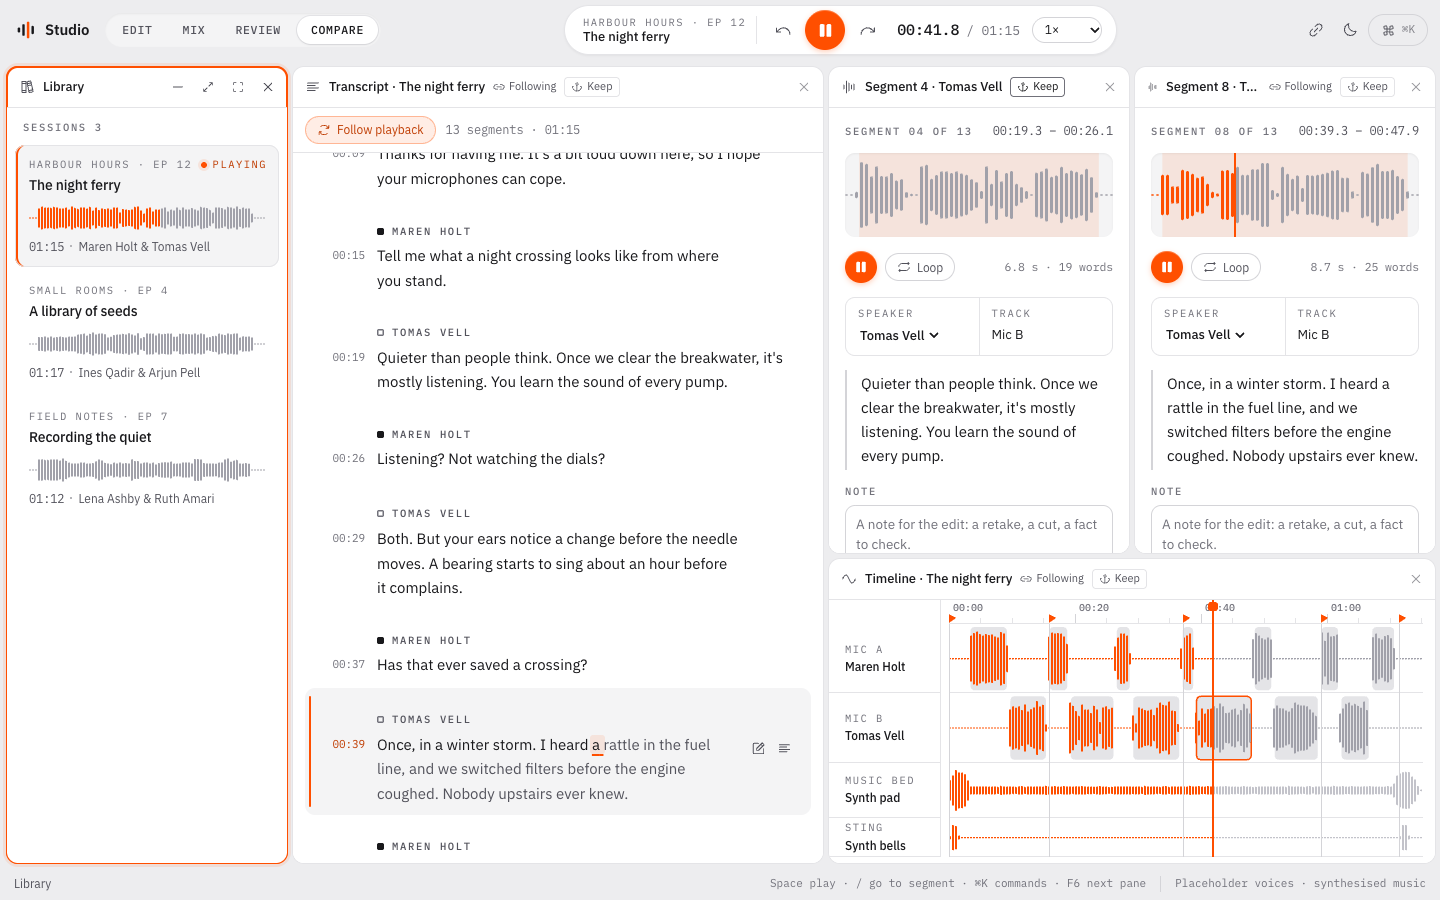
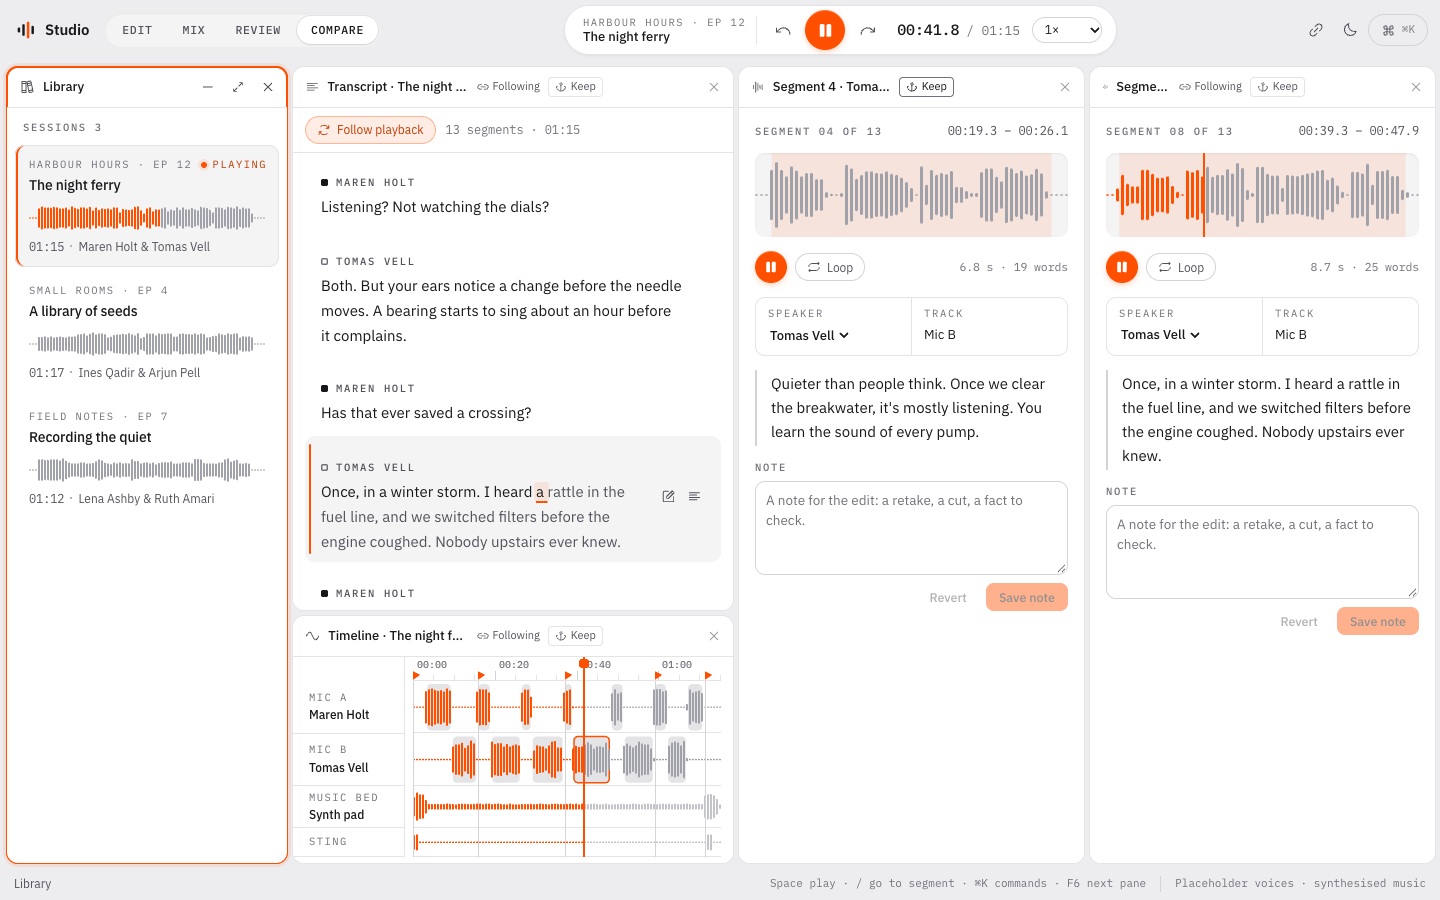
Studio example: Compare keeps the timeline under the transcript, so a narrow window keeps the transcript

diff --git a/examples/studio/src/presets.ts b/examples/studio/src/presets.ts
@@ -76,25 +76,19 @@ export const presets: PresetOptions[] = [
     ),
   },
   {
-    // Two segments side by side: the left one is kept; the right one follows the transcript.
+    // Two segments side by side, full height: the left one is kept; the right one follows the transcript, which has
+    // the timeline under it. Narrow, the two segments fold into the transcript's tabs.
     id: "compare",
     label: "Compare",
     layout: row(
       pane(library(), { id: "library", weight: 0.7 }),
-      tr(1.4),
-      column(
-        { weight: 2 },
-        row(
-          { weight: 1.6 },
-          pane(clip({ session, segment: "s04" }), {
-            id: "clip-a",
-            linkedTo: "transcript",
-            kept: true,
-          }),
-          pane(clip({ session, segment: "s06" }), { id: "clip", ...followsTranscript }),
-        ),
-        tl(1),
-      ),
+      column({ weight: 1.5 }, tr(2.2), tl(1)),
+      pane(clip({ session, segment: "s04" }), {
+        id: "clip-a",
+        linkedTo: "transcript",
+        kept: true,
+      }),
+      pane(clip({ session, segment: "s06" }), { id: "clip", ...followsTranscript }),
     ),
   },
 ];

diff --git a/examples/studio/FINDINGS.md b/examples/studio/FINDINGS.md
@@ -87,7 +87,17 @@ Studio is built on `@jali/core` and `@jali/react` alone, with no change to `pack
 
 **Suggestion.** In a narrow header, move tuck, maximise and full screen into a menu before the shown tab's title drops below a few characters.
 
-## 9. Smaller things
+## 9. A wide pane folded into a narrow one's tabs can fold everything
+
+**Wanted.** Compare at 760 pixels: the library and the transcript, with the two segments and the timeline as tabs.
+
+**Happened.** In the first version of Compare the timeline (minimum 440) sat under the two segments. At 760 the segments folded, then the timeline folded into the library's tab group, since it follows the library. A tab group is as narrow as its widest tab allows, so the library's group became 440 wide, the transcript no longer fitted beside it, and it folded too: one pane on screen, "4 folded" on the shelf. Each step follows the documented rules; together they gave the worst result.
+
+**Workaround.** Compare now puts the timeline under the transcript, so a fold never sends a wide pane into the library (`presets.ts`). At 760 it shows the library, the transcript and the timeline, with the two segments as tabs of the transcript.
+
+**Suggestion.** When choosing where a folded pane goes, prefer a group whose minimum it doesn't raise, or let fitting compare the outcome of folding into the source against folding into a neighbour.
+
+## 10. Smaller things
 
 - **Peek with a following detail.** ⇧Space (Studio's peek) shows the row in the following detail, not in the peek sheet. That is the documented rule, but it surprises an app whose own handler calls `peek(ref)` and sees no sheet. A line in `PaneProps.peek`'s reference would help.
 - **Titles can't read app state.** A kind's `title` is a function of its params, so a renamed speaker appears in the segment detail's title only through `useTitle`, and the peek sheet keeps the kind's title. The two titles differ for the same object.

diff --git a/examples/studio/README.md b/examples/studio/README.md
@@ -24,7 +24,7 @@ The speech was made with macOS system voices (`say`), as a placeholder for the l
 - Press E on a segment to correct it, then Esc. The correction is unsaved work: the tab shows a dot, and choosing Mix (which has no transcript) asks first. Choose Review instead: the transcript and its draft come along. ⌘S saves.
 - Click a speaker's name in the transcript to rename them. The timeline, the mixer and the segment detail follow.
 - In Mix, move a fader, mute or solo a track, and watch the meters. Make the window short until the mixer folds into a tab: the sound and the mix go on, only the meters stop drawing. The folded mixer's shelf chip shows it is working.
-- Press Keep on the segment detail, select another segment and press ⌥↵: two segments side by side. The Compare layout starts that way.
+- Press Keep on the segment detail, select another segment and press ⌥↵: two segments side by side. The Compare layout starts that way, with segment 4 kept and segment 6 following.
 - Switch layouts in the top bar, then copy the link (the link button, or ⌘K "Copy a link to this layout"). The link reopens the same layout and session.
 - Narrow the window. Panes fold into tabs rather than squeeze, and come back as it widens. Below 600 pixels a phone shows the library over the transcript.
 
